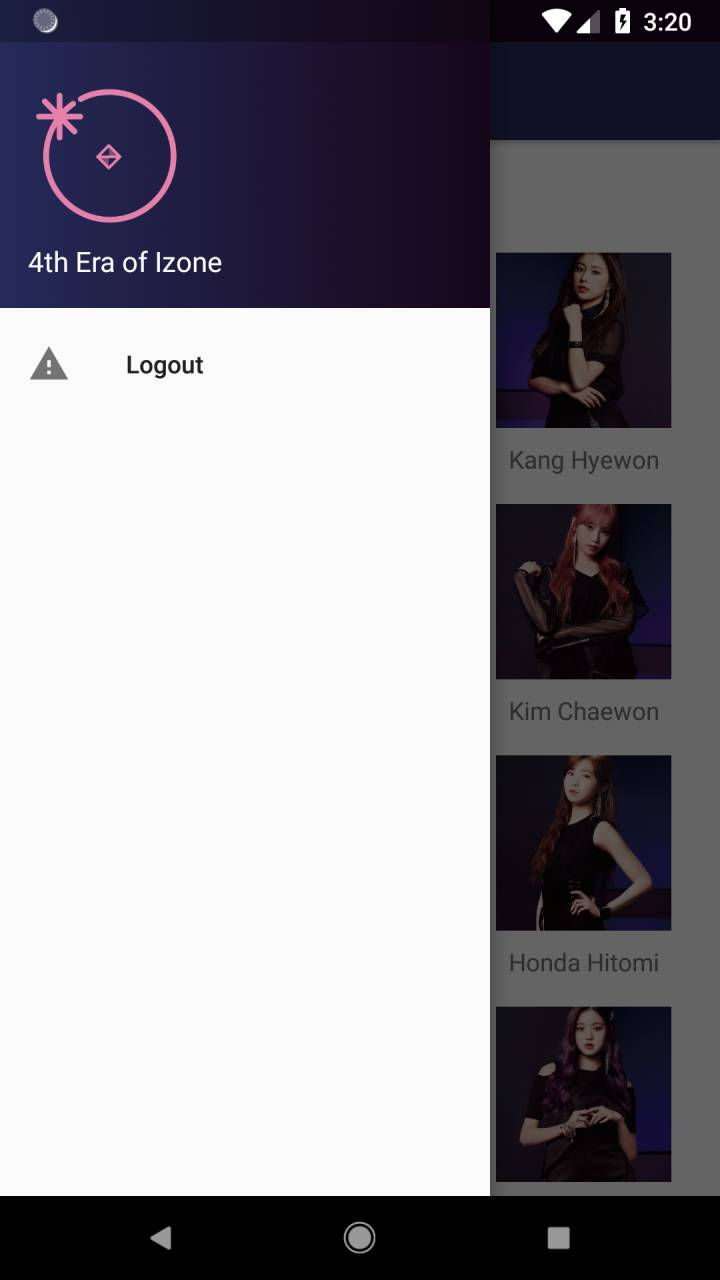
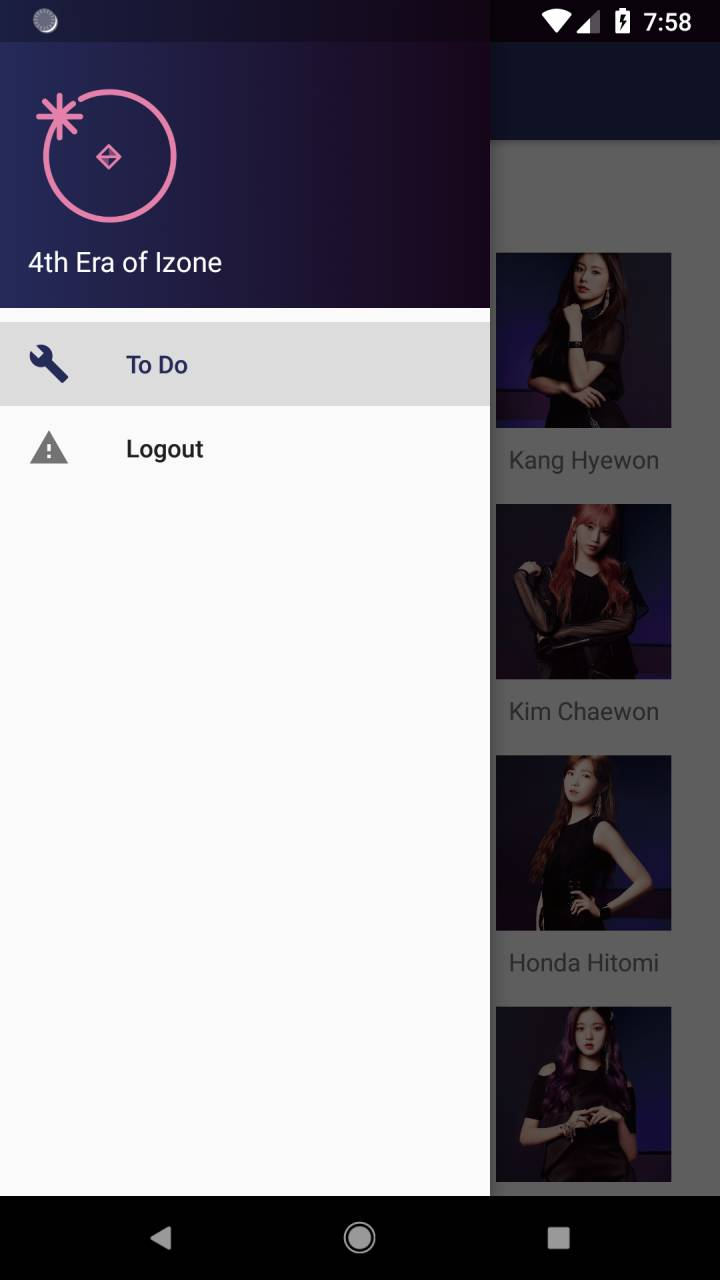
update readme and ss

Changed region(s): [[0.0, 0.25, 0.7028, 0.375], [0.8861, 0.0, 0.9472, 0.0312]]

diff --git a/readme.md b/readme.md
@@ -10,9 +10,11 @@ Kotlin android native:
 - Picasso package (URL image load)
 - SharedPreferences for save login state
 - Slide animation on activity change
+- Todo List Activity
+- Recycle View CRUD with adapter
 
 # SS
-<img src="https://raw.githubusercontent.com/fariswd/my-zone/master/ss0.jpg" height="300"><img src="https://raw.githubusercontent.com/fariswd/my-zone/master/ss1.jpg" height="300"><img src="https://raw.githubusercontent.com/fariswd/my-zone/master/ss2.jpg" height="300"><img src="https://raw.githubusercontent.com/fariswd/my-zone/master/ss3.jpg" height="300"> 
+<img src="https://raw.githubusercontent.com/fariswd/my-zone/master/ss0.jpg" height="300"><img src="https://raw.githubusercontent.com/fariswd/my-zone/master/ss1.jpg" height="300"><img src="https://raw.githubusercontent.com/fariswd/my-zone/master/ss2.jpg" height="300"><img src="https://raw.githubusercontent.com/fariswd/my-zone/master/ss3.jpg" height="300"><img src="https://raw.githubusercontent.com/fariswd/my-zone/master/ss4.jpg" height="300"> 
 
 # ToDo
 - route with data ✅
